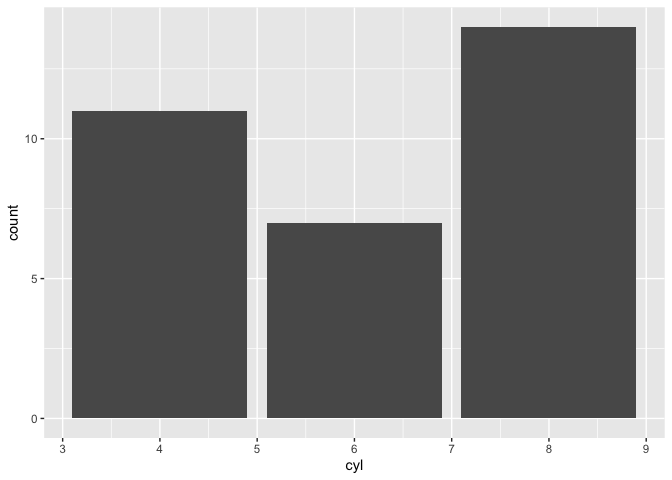
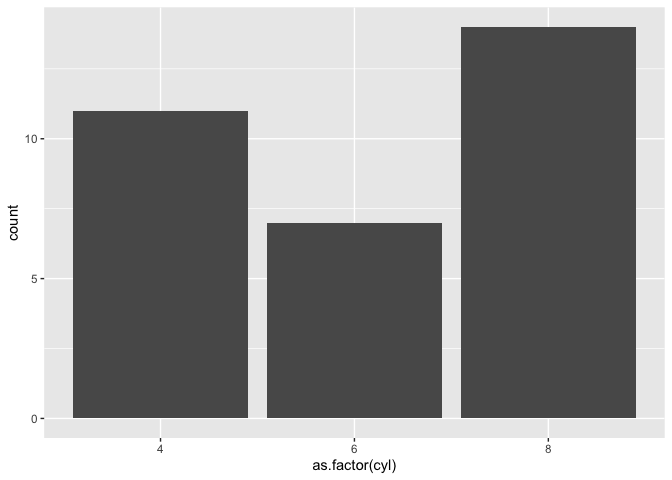
how to add n= to each facet of a plot

diff --git a/Rscripts/miscellaneous_testCode.md b/Rscripts/miscellaneous_testCode.md
@@ -2,7 +2,7 @@ miscellaneous_testCode
 ================
 Janet Young
 
-2025-09-03
+2025-09-10
 
 # basic tidyverse
 
@@ -112,10 +112,10 @@ Alternative in one step, using the special `.value` tag for the
 
 ``` r
 dat %>% 
-  rename_with(~sub("^(BP|HS|BB)$", "values\\1", .)) %>%     # add prefix values
-  pivot_longer(cols= -1,
-               names_pattern = "(.*)(BP|HS|BB)$",
-               names_to = c(".value", "names")) 
+    rename_with(~sub("^(BP|HS|BB)$", "values\\1", .)) %>%     # add prefix values
+    pivot_longer(cols= -1,
+                 names_pattern = "(.*)(BP|HS|BB)$",
+                 names_to = c(".value", "names")) 
 ```
 
     ## # A tibble: 18 × 5
@@ -198,11 +198,75 @@ board_games |>
 
 ``` r
 m %>% 
-    ggplot(aes(x=cyl)) +
+    ggplot(aes(x=as.factor(cyl))) +
     geom_bar()
 ```
 
 ![](miscellaneous_testCode_files/figure-gfm/unnamed-chunk-8-1.png)<!-- -->
+
+## adding number of observations (or other statistical summaries) to faceted plot
+
+### Example 1 - geom_point, with n= labels in each facet
+
+Here the statistical summary applies to all observations in the facet
+together.
+
+``` r
+## calculate the summary stats separately.
+# note that the facetting variable (Species) is a column in the summary 
+iris_summary <- iris %>% 
+    group_by(Species) %>% 
+    summarize(label = dplyr::n()) %>% 
+    mutate(label=paste0("n = ", label)) %>% 
+    ## use the entire dataset (not grouped) to get x and y coords for the n= labels
+    mutate(x=min(iris$Sepal.Length)*1.1) %>% 
+    mutate(y=max(iris$Petal.Length)*1.1)
+
+## then make the plot
+iris %>% 
+    ggplot(aes(x=Sepal.Length, y=Petal.Length, color=Species)) +
+    geom_point() +
+    geom_text(data=iris_summary, 
+              aes(label=label, y=y, x=x)) +
+    facet_wrap(vars(Species)) +
+    theme_classic() +
+    guides(color="none")
+```
+
+![](miscellaneous_testCode_files/figure-gfm/unnamed-chunk-9-1.png)<!-- -->
+
+### Example 2
+
+Each facet is a geom_boxplot.
+
+Here the statistical summary applies to each group within each facet.
+
+``` r
+## get example data in long format
+iris_long <- iris %>% 
+    pivot_longer(cols=-Species, names_to="variable", values_to="value")
+
+## make a function to produce the labels we want
+stat_box_data <- function(y) {
+    ## weirdly this works fine if I return a data.frame, but if I make it a tibble the count and mean are both wrong
+    # data_summary <- tibble(
+    data_summary <- data.frame(
+        y = 0.5+1.1*max(y),  # may need to modify this depending on your data
+        label = paste('count =', length(y), '\n',
+                      'mean =', round(mean(y), 1), '\n') )
+    return(data_summary)
+}
+
+ggplot(data = iris_long, aes(x=Species, y=value)) + 
+    geom_boxplot(aes(fill=Species)) +
+    stat_summary(
+        fun.data = stat_box_data, 
+        geom = "text", 
+        hjust = 0.5,  vjust = 0.9 ) + 
+    facet_wrap( ~ variable, scales="free")
+```
+
+![](miscellaneous_testCode_files/figure-gfm/unnamed-chunk-10-1.png)<!-- -->
 
 ## tribble - a way to manually create small tibbles, row-wise
 
@@ -243,44 +307,44 @@ tibble(colA=c("A","B","C"),
 ```
 
     ## [[1]]
-    ##  [1]  2.5337105 -0.5037058 -0.3420550 -0.8294836 -0.5762657  2.1862860
-    ##  [7]  0.3887390 -0.3616929  1.0885171  1.7103650
+    ##  [1]  1.0226865  1.0911333  1.1047205 -0.3360370  1.2966848  0.2877406
+    ##  [7]  1.7987976 -0.1216510 -0.1922810  2.0950448
     ## 
     ## [[2]]
-    ##  [1]  3.2906783  2.0541506  0.5566394  1.0686723  2.8352151  2.0097662
-    ##  [7]  2.4973458  2.4568271 -1.2143522  3.1387133
+    ##  [1]  1.53729341  2.45908163  2.03350849  0.06278845 -0.37595216  2.18645246
+    ##  [7]  2.34875016  2.38328965  2.17834000  0.42526899
     ## 
     ## [[3]]
-    ##  [1] 3.177782 3.950517 3.493693 3.526557 5.034674 2.233856 1.669345 3.465932
-    ##  [9] 1.799782 4.527092
+    ##  [1] 2.570311 2.673257 2.174009 4.589707 2.505917 2.398547 1.979656 3.434112
+    ##  [9] 3.785936 3.622541
     ## 
     ## [[4]]
-    ##  [1] 3.118913 5.925571 3.263825 3.827908 5.094115 4.135069 5.455722 4.045229
-    ##  [9] 2.658769 3.979380
+    ##  [1] 5.470581 4.374080 2.721470 4.183991 3.864575 4.116249 3.863149 2.885119
+    ##  [9] 2.300264 4.487123
     ## 
     ## [[5]]
-    ##  [1] 7.233092 4.942127 7.567994 3.441534 5.333716 3.470762 6.319699 5.247824
-    ##  [9] 6.421729 6.339656
+    ##  [1] 4.406460 4.113938 7.659399 4.698848 4.174037 6.115743 4.196657 5.692601
+    ##  [9] 5.682310 6.615184
     ## 
     ## [[6]]
-    ##  [1] 4.431782 5.929645 5.202675 5.628224 4.906965 6.270532 5.516729 4.665826
-    ##  [9] 6.198512 5.493117
+    ##  [1] 6.399557 7.430474 6.756498 6.308314 7.124686 7.682659 3.950169 6.215587
+    ##  [9] 6.226614 6.710660
     ## 
     ## [[7]]
-    ##  [1] 6.976693 7.189711 5.917902 7.362036 6.415899 7.301861 7.089937 5.280018
-    ##  [9] 6.071834 5.331667
+    ##  [1] 6.859117 8.318021 6.197292 9.306018 7.347522 5.628162 8.846919 6.833403
+    ##  [9] 7.182282 6.778534
     ## 
     ## [[8]]
-    ##  [1] 7.497170 7.713415 8.768254 8.496322 7.978923 5.838653 6.989892 9.474653
-    ##  [9] 6.122191 6.952462
+    ##  [1] 8.853657 7.948428 7.716096 9.123192 8.863158 7.160108 7.253434 6.954583
+    ##  [9] 6.949928 5.161311
     ## 
     ## [[9]]
-    ##  [1]  9.410924  9.395712  9.654187  9.312494 10.082496  7.624376  7.370507
-    ##  [8]  9.026808  8.210636 10.668327
+    ##  [1]  8.382735  8.630428  9.636523 10.472318  8.005073  6.855917  8.894602
+    ##  [8]  8.927563  7.690670  8.849851
     ## 
     ## [[10]]
-    ##  [1]  9.959637  9.275934  8.998246  9.374215  8.604762 11.045926  9.878936
-    ##  [8] 10.796314  9.303442 11.325997
+    ##  [1]  9.682566 10.153291  9.453153 10.114614  9.127852 10.168679  8.614307
+    ##  [8] 11.746862  9.843680  9.862189
 
 ``` r
 # do something to each column
@@ -453,7 +517,7 @@ test_df %>%
 
 I had a use case where I wanted to associate a few bits of info with a
 tibble of data. The actual example is that my tibble contained
-genome-wide t-test results, and I wanted to record eaxctly what method
+genome-wide t-test results, and I wanted to record exactly what method
 I’d used to do the t-tests)
 
 Note that `attr()` and `atrributes()` are different functions
@@ -594,7 +658,7 @@ reverse_count
 
 <td style="text-align:right;">
 
-<span style="display: inline-block; direction: rtl; unicode-bidi: plaintext; border-radius: 4px; padding-right: 2px; background-color: #56A33E; width: 100.00%">1554374</span>
+<span style="display: inline-block; direction: rtl; unicode-bidi: plaintext; border-radius: 4px; padding-right: 2px; background-color: #56A33E; width: 100.00%">1455230</span>
 </td>
 
 <td style="text-align:right;">
@@ -622,7 +686,7 @@ reverse_count
 
 <td style="text-align:right;">
 
-<span style="display: block; padding: 0 4px; border-radius: 4px; background-color: #ffffff">21.9</span>
+<span style="display: block; padding: 0 4px; border-radius: 4px; background-color: #ffffff">22.1</span>
 </td>
 
 <td style="text-align:right;">
@@ -642,7 +706,7 @@ reverse_count
 
 <td style="text-align:right;">
 
-<span style="display: block; padding: 0 4px; border-radius: 4px; background-color: #1cc2e3">4885</span>
+<span style="display: block; padding: 0 4px; border-radius: 4px; background-color: #1cc2e3">4890</span>
 </td>
 
 </tr>
@@ -661,7 +725,7 @@ reverse_count
 
 <td style="text-align:right;">
 
-<span style="display: inline-block; direction: rtl; unicode-bidi: plaintext; border-radius: 4px; padding-right: 2px; background-color: #56A33E; width: 54.22%">842742</span>
+<span style="display: inline-block; direction: rtl; unicode-bidi: plaintext; border-radius: 4px; padding-right: 2px; background-color: #56A33E; width: 56.76%">825921</span>
 </td>
 
 <td style="text-align:right;">
@@ -710,7 +774,7 @@ reverse_count
 
 <td style="text-align:right;">
 
-<span style="display: block; padding: 0 4px; border-radius: 4px; background-color: #ffffff">1787</span>
+<span style="display: block; padding: 0 4px; border-radius: 4px; background-color: #ffffff">1788</span>
 </td>
 
 </tr>
